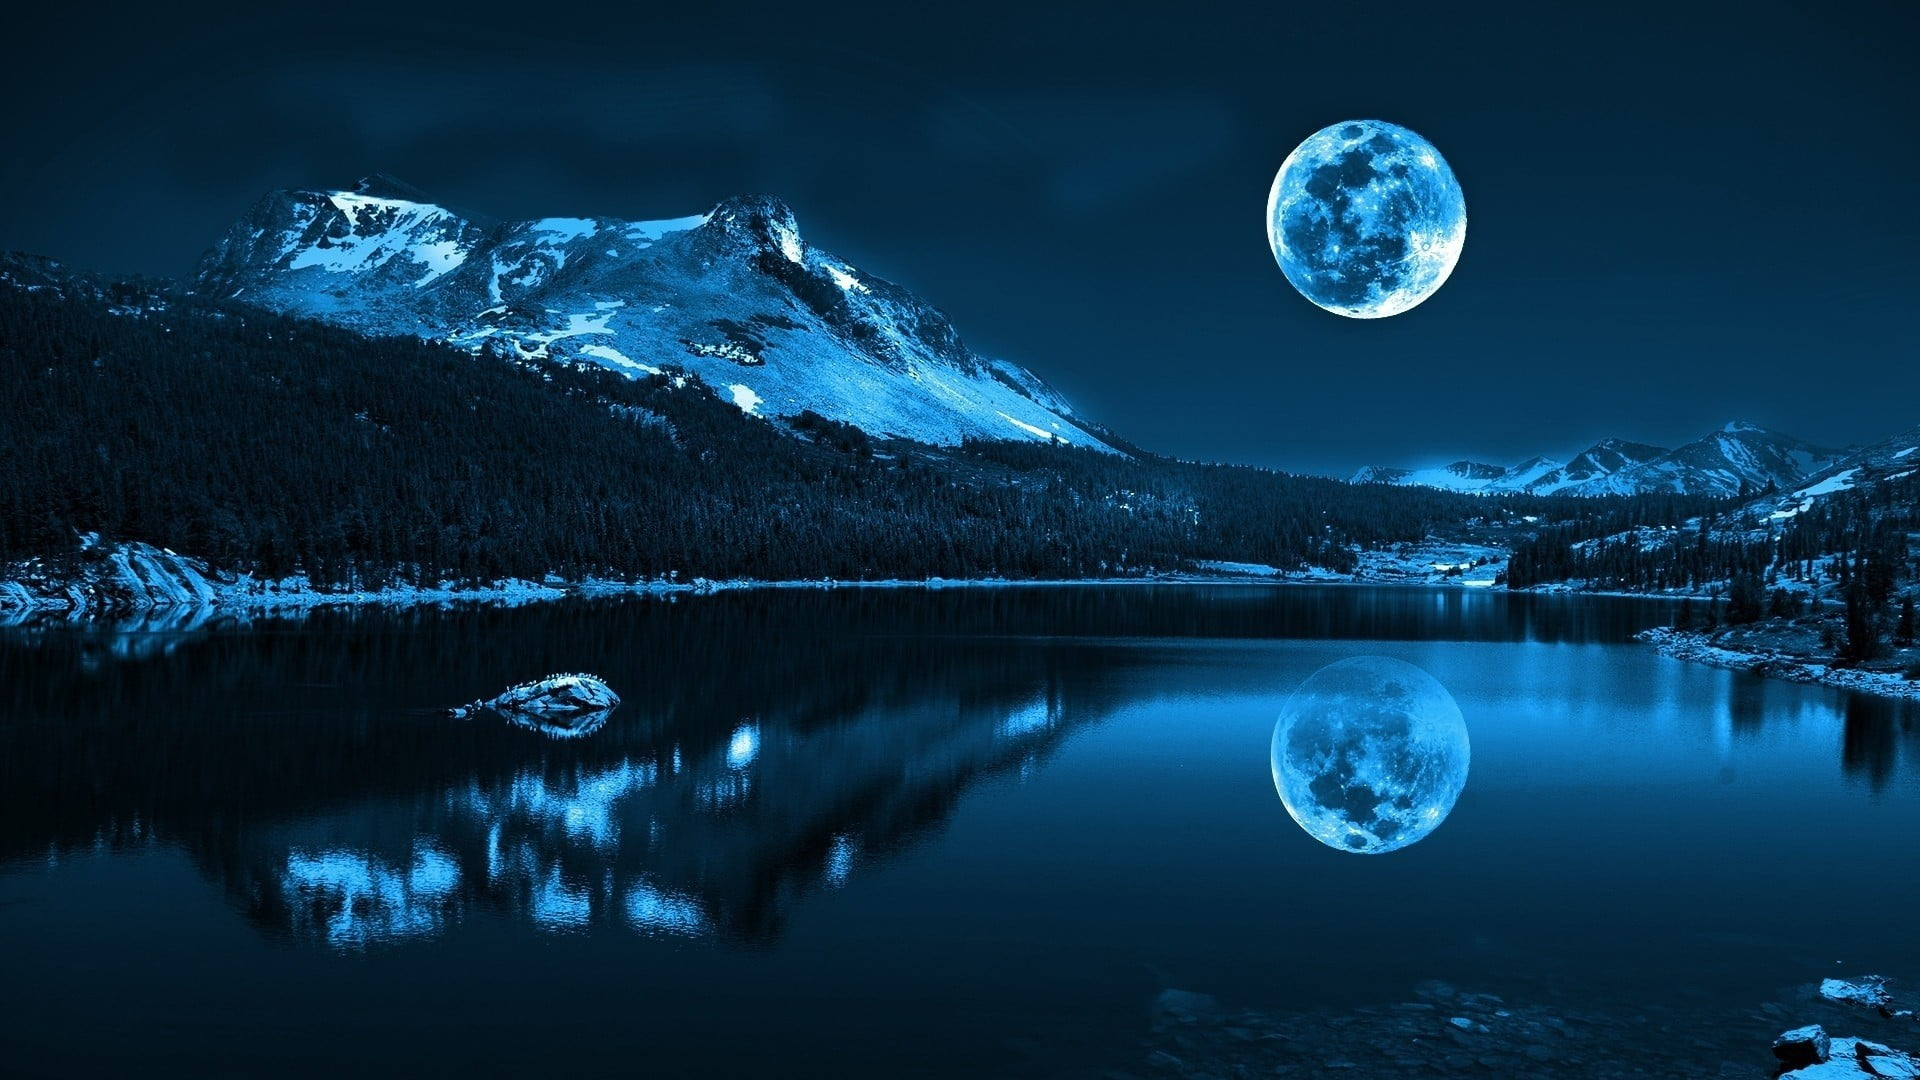
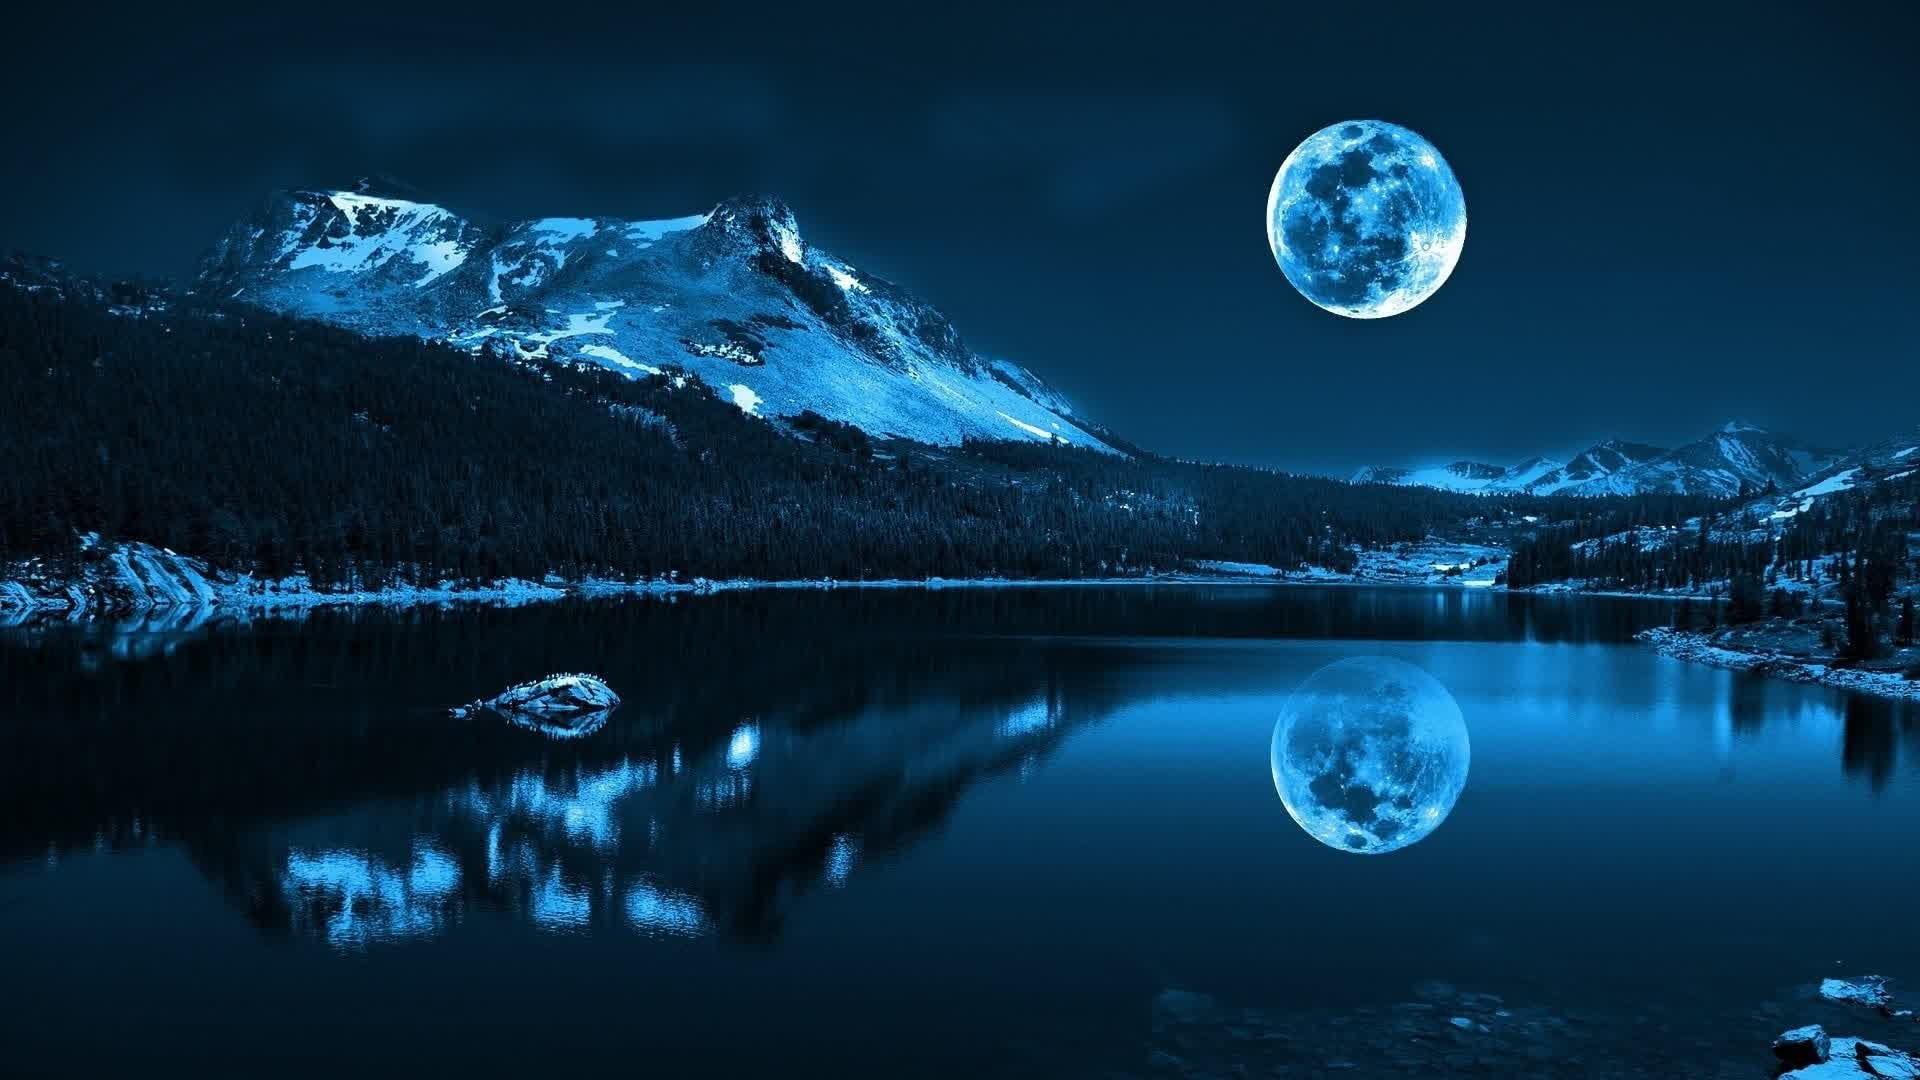
Optimize wallpaper images and set the forest one as the default

diff --git a/src/main.css b/src/main.css
@@ -82,7 +82,10 @@ img {
   height: 100%;
   position: relative;
   overflow: hidden;
-  background: url(./assets/desktop/wallpaper.jpg);
+  background-image: url(./assets/desktop/wallpaper-forest.jpg);
+  background-image: image-set(url(./assets/desktop/wallpaper-forest.avif) type("image/avif"),
+      url(./assets/desktop/wallpaper-forest.jpg) type("image/jpeg"));
+  background-size: cover;
 }
 
 #sidebar {
